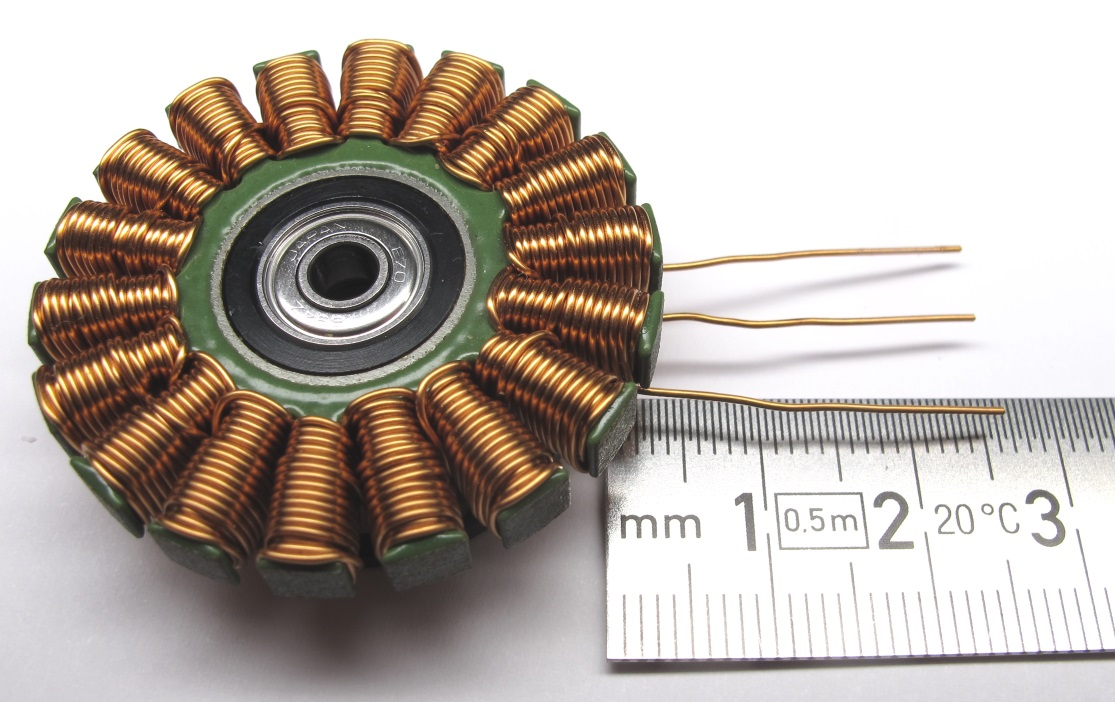
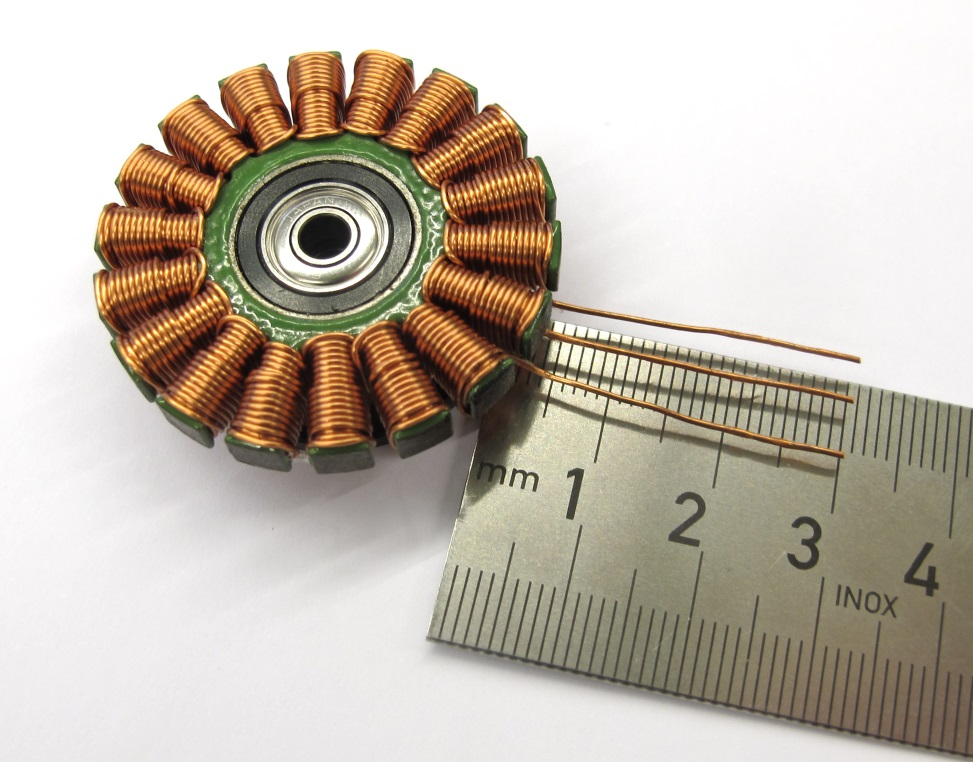
Updating documentation

diff --git a/mechanics/actuator_module_v1/details/details_motor_preparation.md b/mechanics/actuator_module_v1/details/details_motor_preparation.md
@@ -17,7 +17,7 @@
 ## Separating Rotor and Stator
 <img src="../images/motor_mod_2.jpg" width="250"> <br>*Bottom view: the retaining ring holds the motor shaft in place*  
 
-<img src="../images/motor_mod_2_1.jpg" width="250"> <br>*Remove the retaining ring from the motor shaft.<br>
+<img src="../images/motor_mod_2_1.jpg" width="250"> <br>*Remove the retaining ring from the motor shaft using small pliers.<br>
 Don't worry about damaging the retaining ring - it's no longer needed*  
 
 <img src="../images/motor_mod_3.jpg" width="300"> <br>*Separate the rotor from the stator by pulling gently to overcome the magnetic forces.. <br>Make sure to keep the brass washer. Store the rotor on a clean surface. <br>Metal particles will stick to the magnets and can cause problems later.*
@@ -52,12 +52,14 @@ Don't worry about damaging the retaining ring - it's no longer needed*
 **Important:** Be careful not to increase the bore diameter too much.  
 If the fit is too loose the rotor will wobble when spinning.
 
-<img src="../images/motor_mod_16.jpg" width="300"> <br>*The rotor is now ready for assembly.*
+<img src="../images/motor_mod_6_1.jpg" width="300"> <br>*Install the two M3 set screws half way using a 1,5mm hex driver.*
+
+<img src="../images/motor_mod_6_2.jpg" width="300"> <br>*The rotor is now ready for assembly.*
 
 ---
 ## Stator Preparation
 ### Removing the Motor Phase Insulation
-<img src="../images/motor_mod_7.jpg" width="300"> <br>*Stator with insulated phase wires*  
+<img src="../images/motor_mod_7.jpg" width="300"> <br>*Stator with original phase wires*  
 
 <img src="../images/motor_mod_7_1.jpg" width="300"> <br>*Carefully cut and remove the large heat shrink at the base.*  
 
@@ -74,7 +76,7 @@ If the fit is too loose the rotor will wobble when spinning.
 <img src="../images/motor_mod_8.jpg" width="300"> <br>*Stator with insulation removed.*  
 
 ### Preparing the Motor Phase Wires
-<img src="../images/motor_mod_8_1.jpg" width="300"> <br>*We shorten the motor phase wires to about 2,5cm measured from the base of the stator.<br>This helps to keep the solder connection inside of the shell structure.*  
+<img src="../images/motor_mod_8_1.jpg" width="300"> <br>*We shorten the motor phase wires to about 3cm measured from the base of the stator.<br>This helps to keep the solder connection inside of the shell structure.<br>Don't shorten the motor phase wires for the Hip AA actuator modules.*  
 
 <img src="../images/motor_mod_8_2.jpg" width="300"> <br>*We use a temperature controlled soldering iron to burn off the orange insulation.<br>Set your soldering iron to a temperature of abour 400 degrees celcius.*  
 

diff --git a/electronics/details/details_wiring.md b/electronics/details/details_wiring.md
@@ -29,13 +29,19 @@
 ## SPI Wires
 <img src="../images/spi_wires.jpg" width="500"> <br>
 
-* for the SPI connections between the master board and the micro driver boards we use [0,14 mm² Kabeltronik wires](details_components.md#kabeltronik-encoder-wires) with a [5 pole Hirose DF13 connector](details_components.md#hirose-df13-sockets)
+* for the SPI connections between the master board and the micro driver boards we use [0,14 mm² Kabeltronik wires](details_components.md#kabeltronik-encoder-wires) with two [5 pole Hirose DF13 connectors](details_components.md#hirose-df13-sockets)
 * for crimping the wires you will need the [DF13 crimp terminals](details_components.md#hirose-df13-crimp-terminals) and the [Hirose DF13 crimp tool](details_components.md#hirose-crimp-tool)
 * the color code and pin assignment is documented below
 * the spi bus operates at high frequencies - keep the wires short
 
 <img src="../images/spi_wiring_1.png" width="600"> <br>*SPI bus connection between the master board and the micro driver boards*
 
+---
+## IMU Wire
+<img src="../images/imu_wire_1.jpg" width="500"><br>*Inertia Measurement Wire*<br>
+
+* for connecting the inertia measurement unit to the master board we use a [ribbon cable with a 10 pin rectangular connector](details_components.md#imu-cable) and extension wires with a [4 pin Hirose connector](details_components.md#hirose-df13-sockets)
+* the pin assignment is documented here: [Master Board Wiring](https://github.com/open-dynamic-robot-initiative/master-board/blob/master/documentation/masterboard_wiring.md#imu)
 ---
 ## Robot Interface Wire
 <img src="../images/connection_wire_3.jpg" width="400"><br>*Robot Interface Wire - Supply Side*<br>

diff --git a/mechanics/actuator_module_v1/details/details_encoder_preparation.md b/mechanics/actuator_module_v1/details/details_encoder_preparation.md
@@ -1,6 +1,6 @@
 # Details Encoder Preparation
 
-<img src="../images/encoder_mod_1_1.jpg" width="400"> <br>*Starting Point: Encoder, wires, crimps and cable.*
+<img src="../images/encoder_mod_1_1.jpg" width="400"> <br>*Starting Point: Encoder, wires, Hirose connector and crimp contacts.*
 
 <img src="../images/encoder_mod_1_2.jpg" width="400"> <br>*End Result: Modified Encoder with extension wires and connector*
 
@@ -48,7 +48,7 @@
 
 ## Crimping Hirose Connector
 
-<img src="../images/encoder_mod_8_3.jpg" width="300"> <br>*For this step you will need the Hirose DF13 Crimping Tool and the crimp contacts.*  
+<img src="../images/encoder_mod_8_3.jpg" width="300"> <br>*For this step you will need the Hirose DF13 Crimping Tool, the crimp contacts and a wire stripper.*  
 
 <img src="../images/encoder_mod_8_4.jpg" width="300"> <br>*For crimping about 1mm of the insulation has to be removed.*  
 
@@ -64,7 +64,7 @@
 
 <img src="../images/encoder_mod_8_11.jpg" width="300"> <br>*Prepare the Hirose 5pin connector.*
 
-<img src="../images/encoder_mod_8_10.jpg" width="300"> <br>*Insert the crimped wires into the connector.<br>Tweezers make it easier to insert the contacts.*   
+<img src="../images/encoder_mod_8_10.jpg" width="300"> <br>*Insert the crimped wires into the connector.<br>Tweezers make it easier to insert the contacts.<br>The order is documented in the wiring diagramm below.*   
 
 <img src="../images/encoder_mod_1_2.jpg" width="400"> <br>*The encoder is now ready for installation.*
 

diff --git a/mechanics/actuator_module_v1/details/details_machined_parts.md b/mechanics/actuator_module_v1/details/details_machined_parts.md
@@ -38,6 +38,12 @@ We modified the original AT3 tooth profile in order to reduce backlash.**
 
 #### Instructions
 
+* alternatively the tooth profile can be generated with a wire edm machine
+* we did some initial tests to evaluate this option
+* in terms of cost it doesn't seem to be an advantage and we're not sure how the much rougher surface will affect the life span of the timing belts
+* we are therefore not pursuing this option any longer
+
+
 * [PDF Drawing Wire EDM Geometry](../drawings/pulley_at3_t10_wire_edm.PDF)  
 * [DXF File Wire EDM Geometry](../drawings/pulley_at3_t10_wire_edm.zip)
 
@@ -47,7 +53,12 @@ We modified the original AT3 tooth profile in order to reduce backlash.**
 
 <img src="../images/motor_shaft_1.jpg" width="400"> <br>
 
-[PDF Drawing Motor Shaft](../drawings/motor_shaft.PDF)
+* for the machining the motor shafts we order 4mm h9 precision ground stainless steel stock material
+* the stock material diameter is between 3,99mm and 3,97mm
+* the stock material fits the motor bearings without additional adjustments
+* we order the stock material from [Weinmann Aach](https://weinmann-aach.de/standard-titel/stabstahl) in Germany
+* Precision Ground Stainless Steel Rod 1.4301 EN10278 h9 4,0mm (erd4)
+* machine the motor shafts according to this drawing: [PDF Drawing Motor Shaft](../drawings/motor_shaft.PDF)
 
 ---
 ## Step-by-Step Instructions

diff --git a/mechanics/actuator_module_v1/details/details_center_pulley_preparation.md b/mechanics/actuator_module_v1/details/details_center_pulley_preparation.md
@@ -34,7 +34,7 @@
 
 <img src="../images/pulley_preparation_5_1.jpg" width="300"> <br>*Alternative: You can also use a vise to press-fit the parts.*
 
-<img src="../images/pulley_preparation_5.jpg" width="300"> <br>*Place your stack of parts on the arbor press. <br>Push all the way down using moderate force.*
+<img src="../images/pulley_preparation_5.jpg" width="300"> <br>*Place your stack of parts on the arbor press. <br>Slowly push the aluminum pulley all the way down.*
 
 <img src="../images/pulley_preparation_5_2.jpg" width="300"> <br>*Remove the protection and the assembly tool.<br>Use a cotton swab to remove excess Loctite.*
 
@@ -57,7 +57,7 @@
 
 <img src="../images/pulley_preparation_8_6.jpg" width="300"> <br>*Timing belt tensioner, M3x10 flat head screw and modified M2,5 washer.*
 
-<img src="../images/pulley_preparation_8_8.jpg" width="300"> <br>*Insert the screw into the side with the ledge as shown in the picture.*
+<img src="../images/pulley_preparation_8_8.jpg" width="300"> <br>*Insert the M3 screw into the side with the ledge as shown in the picture.<br>Turn the assembly around and install the modified M2,5 washers.*
 
 <img src="../images/pulley_preparation_1_1.jpg" width="300"> <br>*The center pulley and the two timing belt tensioners are now ready for assembly.*
 

diff --git a/mechanics/actuator_module_v1/details/details_shell_preparation.md b/mechanics/actuator_module_v1/details/details_shell_preparation.md
@@ -6,6 +6,7 @@
 
 ## Description
 *  this page describes how to prepare the shells for the brushless actuator modules
+* the shell assembly consists of two parts (the shell base and the shell cover) which are connected by eight M2,5 screws
 * the flatness of the 3d printed parts and the diameters of the through holes is verified  [-> Checking the 3D Printed Shells](#checking-the-3d-printed-shells)
 * the metric threads are cut with a M3 tap [-> Cutting the Metric Threads](#cutting-the-metric-threads)
 * the threaded inserts are installed [-> Installing the Helicoil Inserts](#installing-the-helicoil-inserts)
@@ -115,7 +116,7 @@ Cut the threads all the way through the shell*
 
 <img src="../images/shell_preparation_3_3.jpg" width="300"> <br>*Install three M2,5x10 screws and one M2,5x6 screw on the base shell.*
 
-<img src="../images/shell_preparation_3_4.jpg" width="400"> <br>*The shell is now fully prepared and ready for assembly.*
+<img src="../images/shell_preparation_3_4.jpg" width="400"> <br>*The shell is now fully prepared and ready for assembly.<br>Weight of the actuator module shell assembly: 61g*
 
 ---
 ## Step-by-Step Instructions

diff --git a/mechanics/quadruped_robot_12dof_v1/README.md b/mechanics/quadruped_robot_12dof_v1/README.md
@@ -165,6 +165,7 @@ The simplified STL files for visualization and simulation can be found here: [ST
 
 <a href="details/solo12_visualization_model.PDF"><img src="images/solo12_dimensions_visualization_1.png" width="500"></a><br>*Click on picture above to view the PDF drawing*
 
+---
 ## Micro Driver Stack Motor Assignment
 <img src="details/front_stack_motor_assignment_1.png" width="500">   
 
@@ -185,6 +186,11 @@ The simplified STL files for visualization and simulation can be found here: [ST
 |9|HR_HAA|3|1|7|
 |10|HR_HFE|5|1|11|
 |11|HR_K|5|0|10|
+
+---
+## Quadruped Robot Details Electronics
+
+<a href="details_electronics_quadruped_12dof.md#details-electronics-quadruped-robot-12dof-v1"><img src="details/wire_routing_bottom.jpg" width="400"></a><br>*Klick on picture above for more details regarding the electronics and wiring.*
 
 ---
 ## Bill of Materials - Quadruped Robot 12dof
